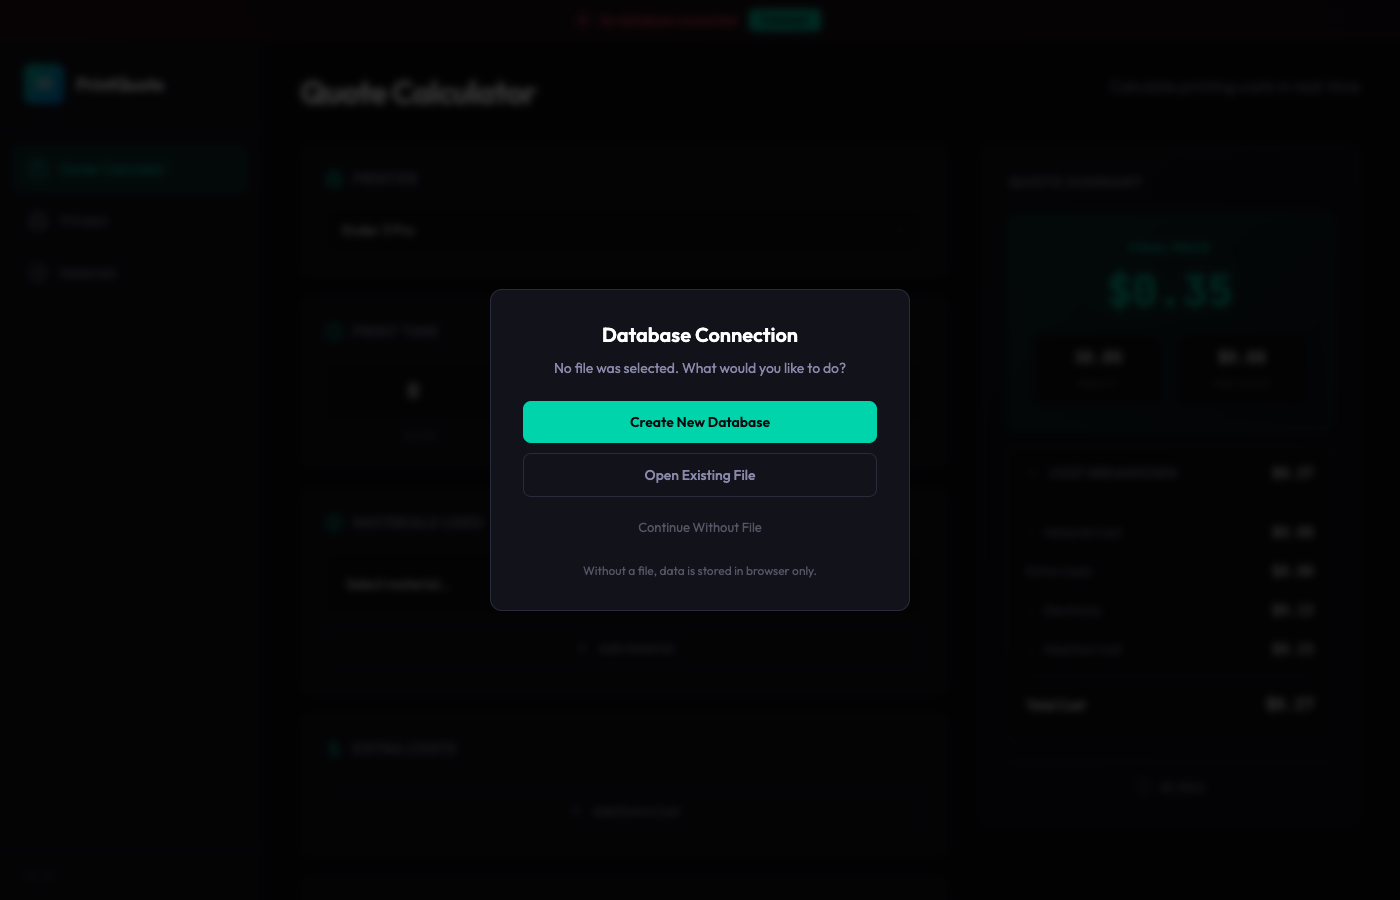
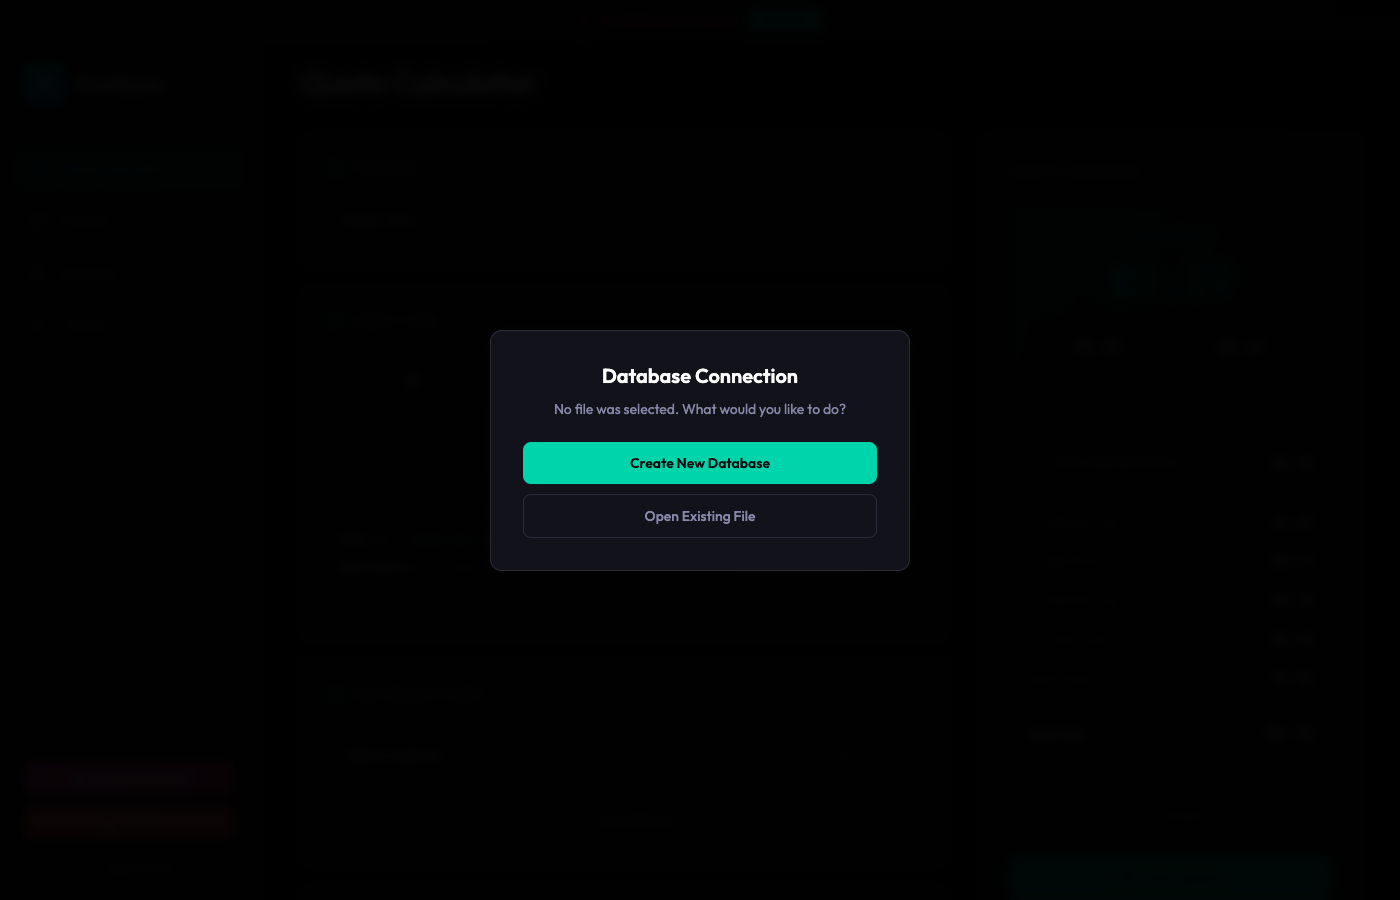
Update screenshots to reflect current UI
- Update all existing screenshots (quote-calculator, printers, materials, database-modal)
- Add new tutorial.png screenshot
- Update screenshot script to match current UI (removed 'Continue Without File' button)
- All screenshots now show latest features including footer and updated modal

diff --git a/take-screenshots.js b/take-screenshots.js
@@ -95,7 +95,7 @@ async function takeScreenshots() {
         // Clear connected flag and show modal
         await page.evaluate(() => {
             localStorage.removeItem('3dPrintQuoteConnected');
-            // Create modal manually
+            // Create modal manually (updated to match current UI)
             const modal = document.createElement('div');
             modal.className = 'modal-overlay';
             modal.id = 'db-modal';
@@ -106,9 +106,7 @@ async function takeScreenshots() {
                     <div class="modal-buttons">
                         <button class="btn-primary" id="create-new-db-btn">Create New Database</button>
                         <button class="btn-secondary" id="open-existing-db-btn">Open Existing File</button>
-                        <button class="btn-cancel" id="cancel-db-btn">Continue Without File</button>
                     </div>
-                    <p class="modal-note">Without a file, data is stored in browser only.</p>
                 </div>
             `;
             document.body.appendChild(modal);
@@ -120,6 +118,23 @@ async function takeScreenshots() {
             fullPage: false 
         });
         console.log('   ✓ database-modal.png');
+
+        // 5. Tutorial page
+        console.log('📸 Taking screenshot: Tutorial...');
+        await page.evaluate(() => {
+            const modal = document.getElementById('db-modal');
+            if (modal) modal.remove();
+        });
+        await page.click('[data-page="tutorial"]');
+        await new Promise(r => setTimeout(r, 500));
+        // Scroll to top
+        await page.evaluate(() => window.scrollTo(0, 0));
+        await new Promise(r => setTimeout(r, 300));
+        await page.screenshot({ 
+            path: path.join(SCREENSHOTS_DIR, 'tutorial.png'),
+            fullPage: false 
+        });
+        console.log('   ✓ tutorial.png');
 
         console.log('\n✅ All screenshots saved to ./screenshots/');
         
